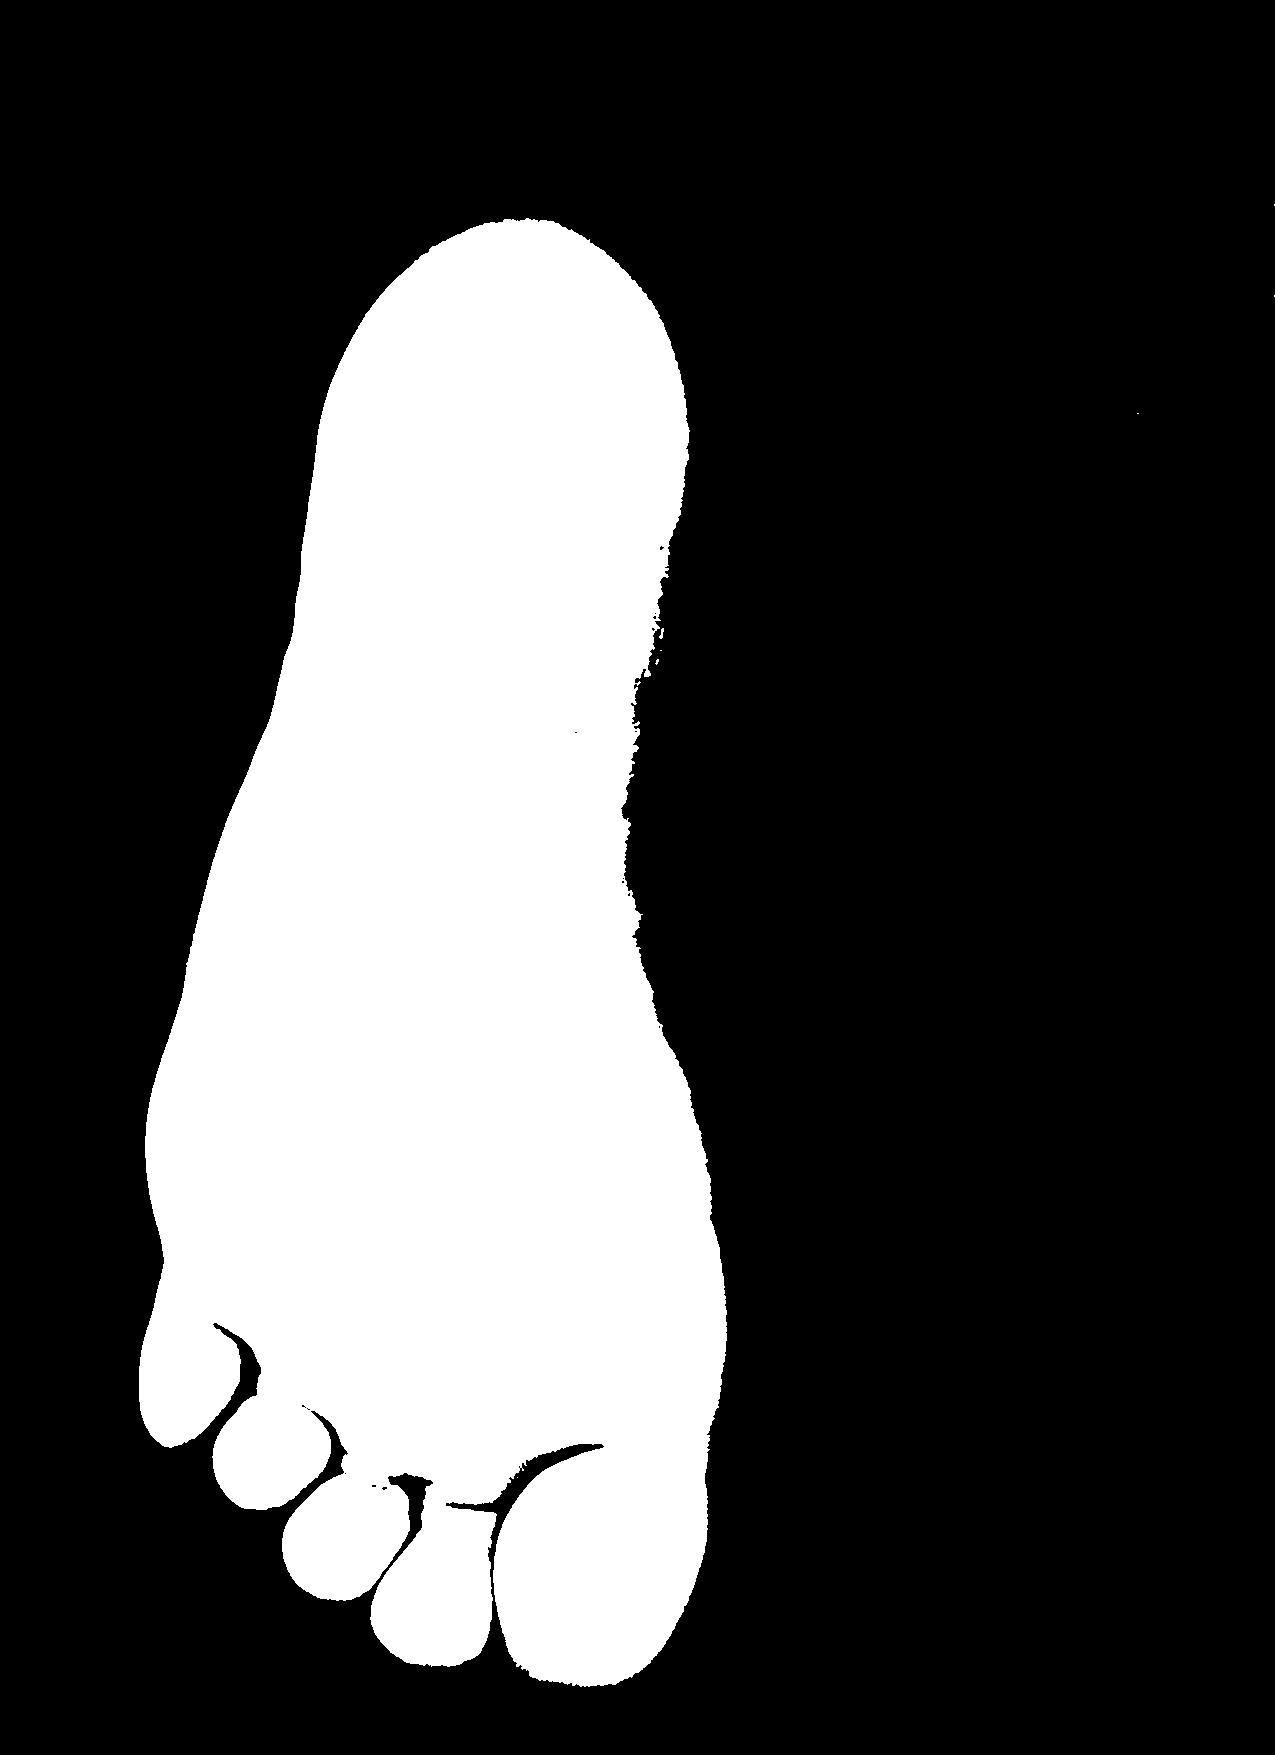
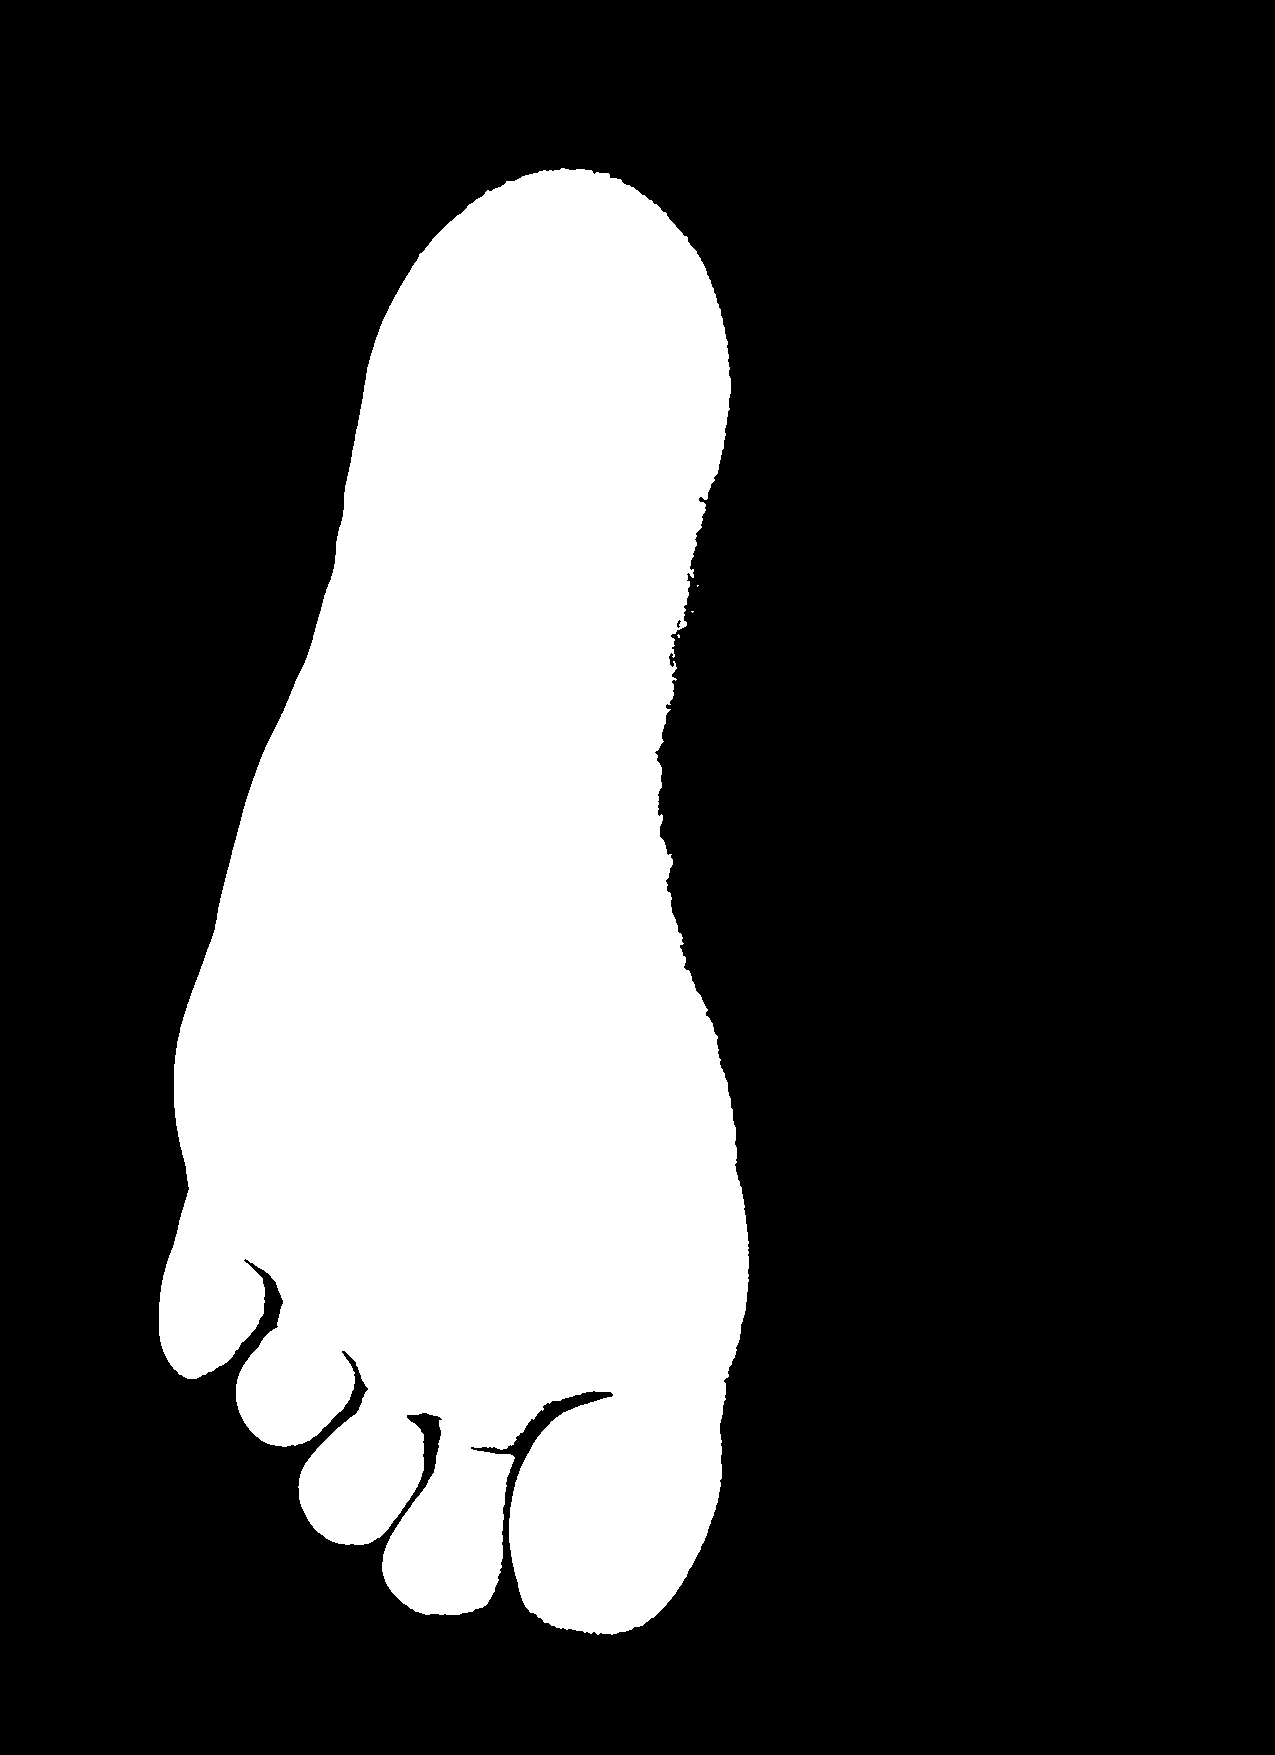
Annotation done

diff --git a/feet.py b/feet.py
@@ -1,12 +1,13 @@
 from PIL import Image
 from PIL import ImageFilter
-img = Image.open('0000215_L_02.tif').convert('L')
+img = Image.open('0000215_L_01.tif').convert('L')
 threshold=80
 img = img.point(lambda p: p > threshold and 255) 
 cordinate = x, y = 151, 200
 pixels=img.load()
-print(pixels[0,0])
+# print(pixels[0,0])
 
+#sort the boundary
 for i in range(img.size[0]): 
     for j in range(img.size[1]):
         if i<10 or j<10:
@@ -18,7 +19,10 @@ for i in range(img.size[0]):
 #             continue
 #         if i<img.size[0] and i>=0 & j<img.size[1] and j>=0 and pixels([i][j])==255:
 
-# img = img.filter(ImageFilter.FIND_EDGES)
+
 img = img.filter(ImageFilter.MedianFilter(size = 3))
+img = img.filter(ImageFilter.MedianFilter(size = 3))
+
+# img = img.filter(ImageFilter.FIND_EDGES)
 
 img.save('greyscale2.png')

diff --git a/Annotate.py b/Annotate.py
@@ -1,0 +1,18 @@
+import cv2
+import numpy as np
+from PIL import Image
+from PIL import ImageFilter
+img = Image.open('greyscale2.png')
+pixels=img.load()
+ann_img = np.zeros((img.size[0],img.size[1],1)).astype('uint8')
+#ann_img[ 3 , 4 ] = 1 # this would set the label of pixel 3,4 as 1
+
+cv2.imwrite( "ann_1.png" ,ann_img )
+
+ct=0
+for i in range(img.size[0]): 
+    for j in range(img.size[1]):
+        if(pixels[i,j]>150):
+            ann_img[i,j]=1
+            ct+=1
+print(ct)
